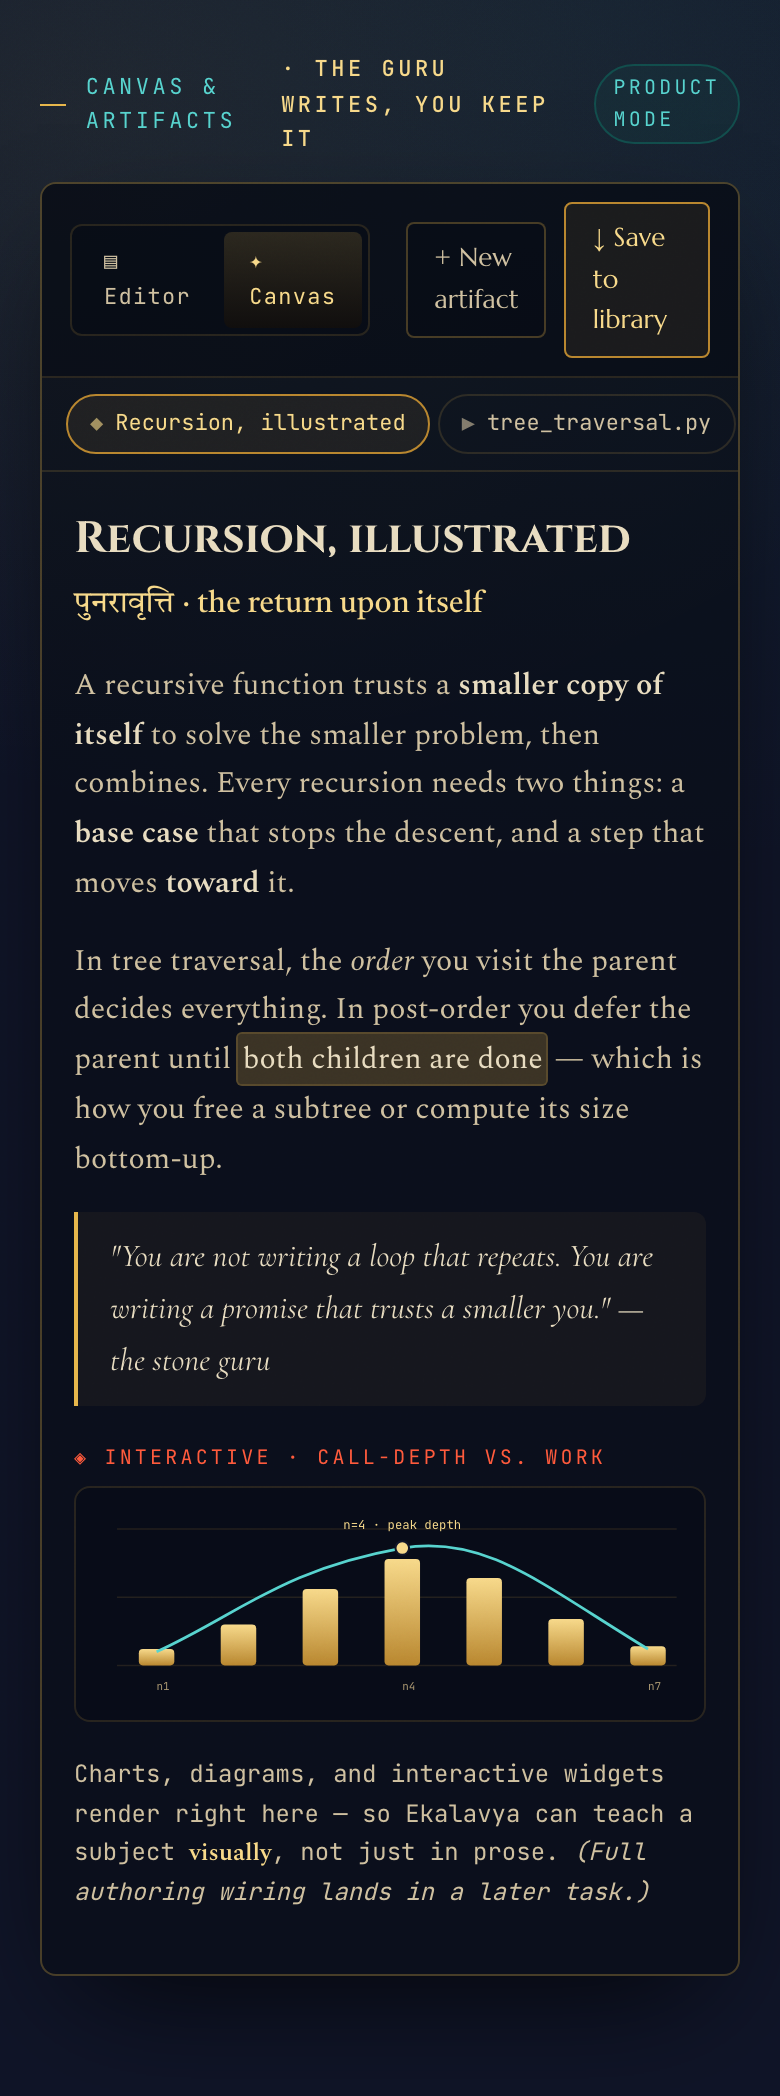
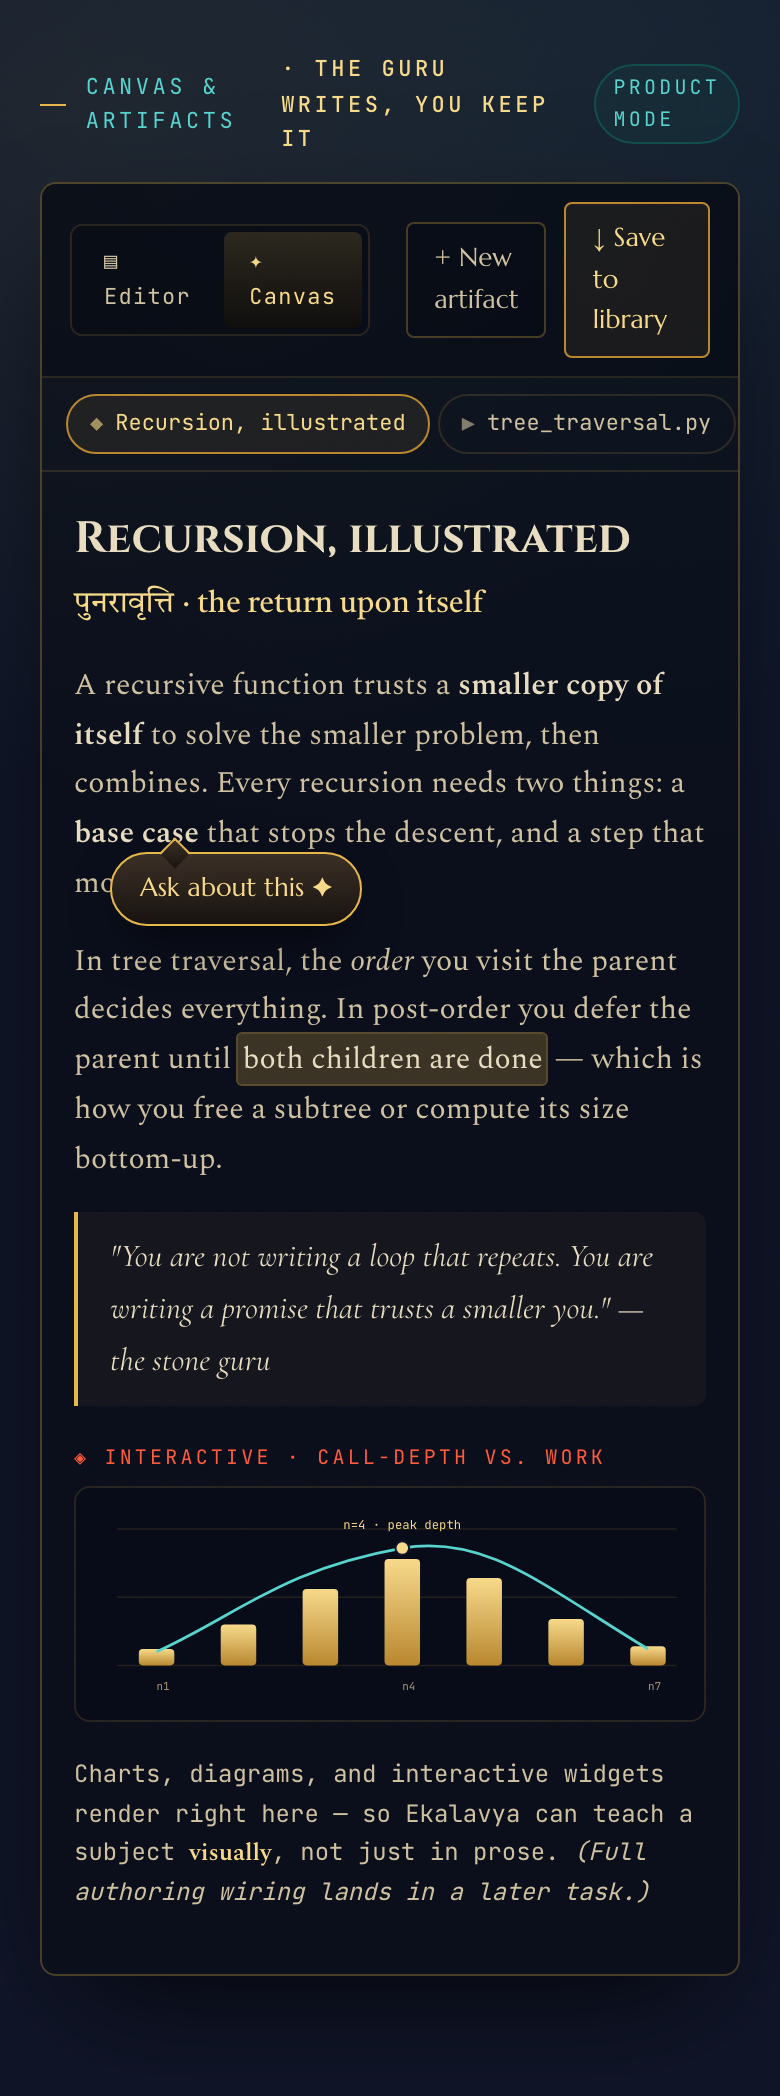
canvas: add highlight-to-ask popover (reuse template selpop component)

Changed region(s): [[0.1231, 0.4031, 0.4615, 0.4342]]

diff --git a/src/eklavya/webapp.py b/src/eklavya/webapp.py
@@ -1293,6 +1293,8 @@ _CANVAS = r"""<!DOCTYPE html><html lang="en"><head><meta charset="utf-8">
           <div class="adeva">पुनरावृत्ति · the return upon itself</div>
           <p>A recursive function trusts a <b>smaller copy of itself</b> to solve the smaller problem, then combines. Every recursion needs two things: a <b>base case</b> that stops the descent, and a step that moves <b>toward</b> it.</p>
           <p>In tree traversal, the <i>order</i> you visit the parent decides everything. In post-order you defer the parent until <span class="selraw">both children are done</span> — which is how you free a subtree or compute its size bottom-up.</p>
+          <!-- highlight-to-ask: selecting any phrase raises this popover to ask the guru about it -->
+          <div class="selpop selpop-below" style="left:34px;top:190px">Ask about this ✦</div>
           <div class="callout">"You are not writing a loop that repeats. You are writing a promise that trusts a smaller you." — the stone guru</div>
           <div style="margin:18px 0 6px;font-family:var(--f-mono);font-size:10px;letter-spacing:var(--ls-label);text-transform:uppercase;color:var(--vermilion-glow)">◈ interactive · call-depth vs. work</div>
           <svg viewBox="0 0 460 170" style="width:100%;border:1px solid var(--line-soft);border-radius:8px;background:rgba(6,9,20,.5)" aria-label="An interactive chart of recursion call depth versus total work.">
